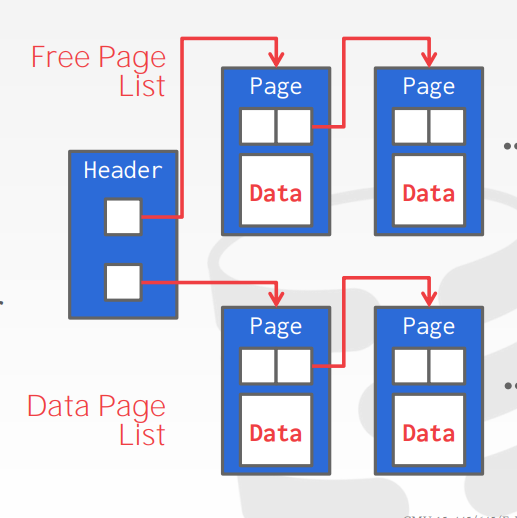
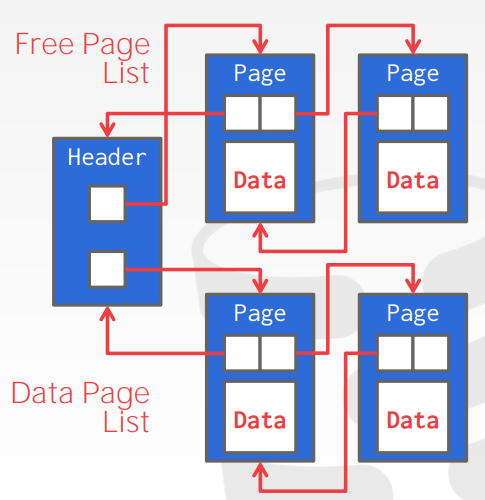
add rest note of lecture3

diff --git a/note.md b/note.md
@@ -51,6 +51,25 @@
     - heap file organization
       - unordered collections of pages, tuple are stored in random order
       - need some mrta-data to track what pages exsist and which ones have free space
-      - represented by: Linked List(dumb)/Page directory <img src='./pictures/heapfile_linked-list.png' width='300' height='200'>
+      - represented by: Linked List(dumb)/Page directory
+        - bi-directional linked list <img src='./pictures/heapfile_linked-list.png' width='300' height='200'>
+          - cost: search cost is expensive O(n)
+        - Page directory <img src='./pictures/page_directory.png' width='300' height='400'>
+          - search cost is much lower, but need to keep the directory and data pages in sync.
     - sequential/sorted file organization
     - hashing file organization
+  
+- page layout
+  - how to organize a single page
+    - header & data
+      - slotted pages: in practice, nobody store tuple from different tables in one page <img src='./pictures/slotted_page.png' width='300' height='300'>
+      - tuple grows from end to begin, and slot array grows from begin to end
+- tuple layout
+  - tuples are just sequence of bytes being interpreted by the dbms.
+  - layout
+  <img src='./pictures/tuple_layout.png' width='300' height='100'>
+  - denormalization (prejoin): some dbms may store tables related (with foreign keys) in the same page, just to reduce the IO cost of join, but increase the cost of updating
+  - tuple identifier
+    - dbms manages an identifier for every tuple, it is mostly organized like (pageId, slotId) or sth like that.
+    - the upper levels doesn't care about these identifiers, they simply use them to locate a specific tuple but does not care about what the identifier actually is.  
+    - these identifiers are not reliable. because they may be frequently changed based on what the dbms application is designed. if a slot is deleted, some dbms applications may leave the slot empty and some may not, that depends.
